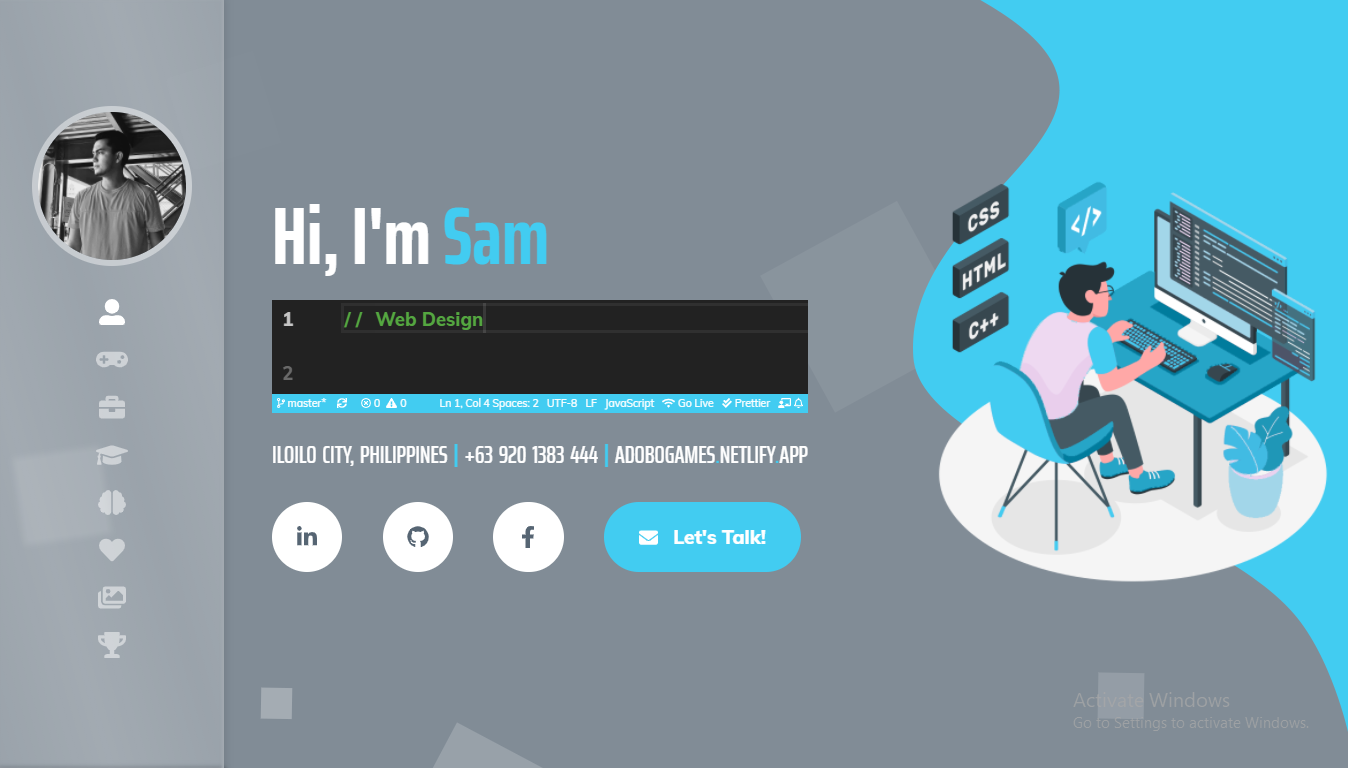
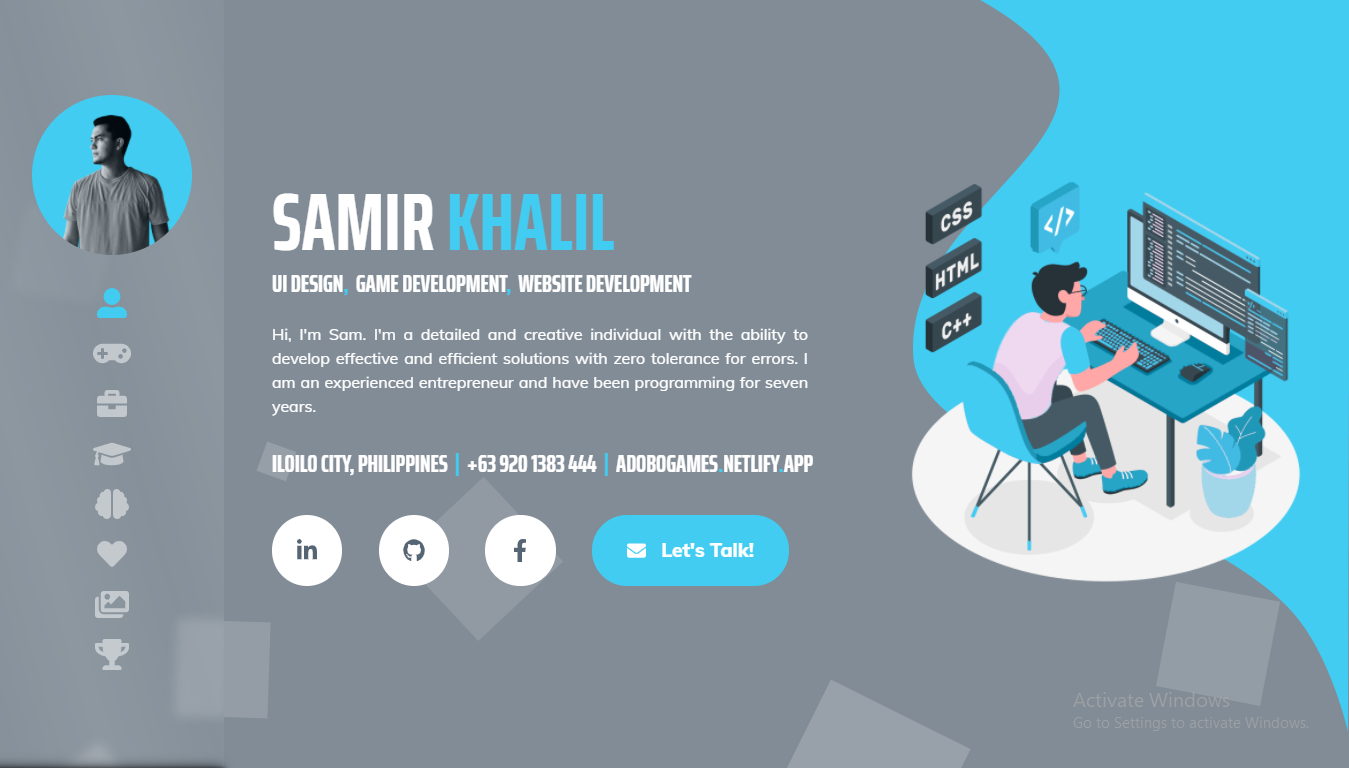
minor changes to overall design

diff --git a/css/styles.css b/css/styles.css
@@ -96,17 +96,17 @@ body {
 .theme-image-blue {
   top: 0%;
   right: 0px;
-  max-height: 100%;
   display: none;
-  max-width: 38%;
   position: absolute;
+  
+  min-width: 33%;
   z-index: -95;
 }
 
+
 .theme-image {
-  /* top: 22%; */
   top: 2.6rem;
-  right: 0%;
+  right: 2%;
   display: none;
   max-width: 32%;
   position: absolute;
@@ -116,11 +116,9 @@ body {
 /* BG Animation */
 
 .animation-area {
-  /* background: linear-gradient(to right, #485da6, #00a1ba, #00bf98, #36c486); */
   background: transparent;
   position: absolute;
   width: 100%;
-  /* height: calc(100vh - 56px); */
   height: 100vh;
   max-height: 100%;
   z-index: -100;
@@ -10859,7 +10857,7 @@ section.resume-section .resume-section-content {
 
 .shadow-connect-div {
   filter: blur(2px);
-  /* visibility: hidden; */
+  visibility: hidden;
   position: absolute;
   min-height: 99.9%;
   width: 15rem;
@@ -11234,6 +11232,10 @@ Slider
     visibility: visible;
   }
 
+  .shadow-connect-div{
+    visibility: visible;
+  }
+  
   .nav-animation-area {
     visibility: visible;
   }

diff --git a/index.html b/index.html
@@ -184,7 +184,7 @@
       <!-- About-->
       <section class="resume-section" id="about">
         <div id="about-content" class="resume-section-content  parallax1">
-          <h1 class="header-small white-text mb-3">
+          <h1 class="header-small white-text mb-1">
             SAMIR<span class="blue-text"> KHALIL</span>
           </h1>
            <h4 class="white-text mb-4 ">UI Design<span class="blue-text">,&nbsp;</span> Game Development<span class="blue-text">,&nbsp;</span> Website development<span class="white-text">&nbsp;</span></h4>

diff --git a/js/app.js b/js/app.js
@@ -79,8 +79,8 @@ if ($(window).width() > 768) {
   window.addEventListener("scroll", function () {
     if (isMobile === false) {
       parallax(".parallax1", window.scrollY, 0.100);
-      parallax(".parallax2", window.scrollY, 0.400);
-      parallax(".parallax3", window.scrollY, 0.600);
+      parallax(".parallax2", window.scrollY, 0.450);
+      parallax(".parallax3", window.scrollY, 0.520);
     } else {
       return;
     }
